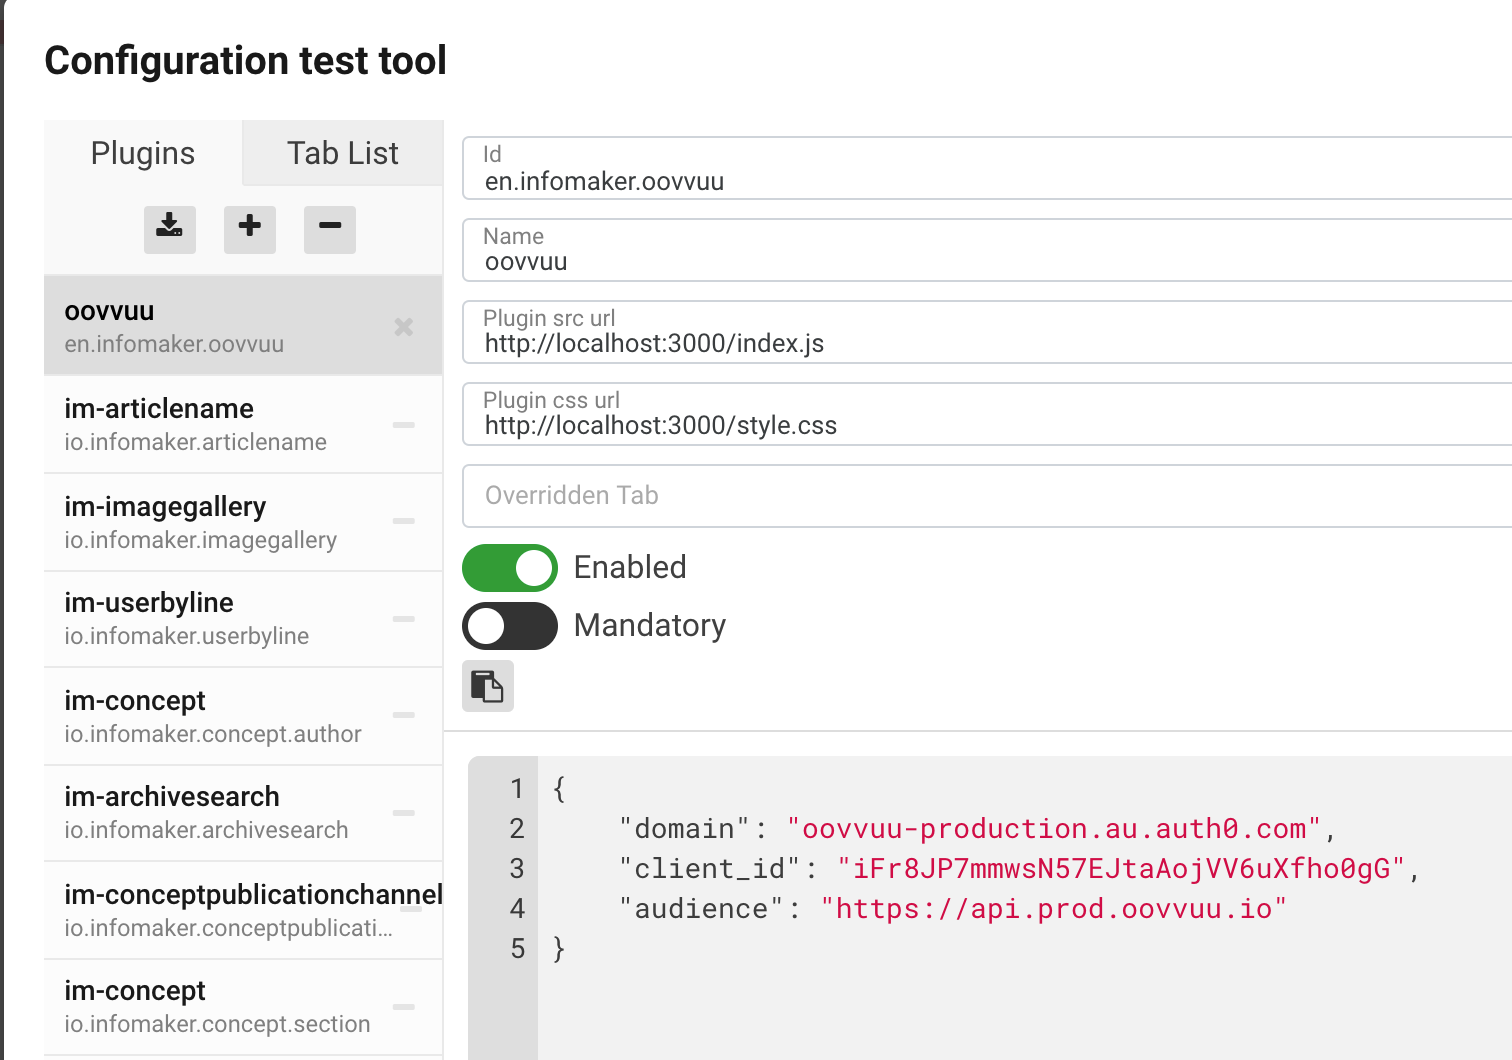
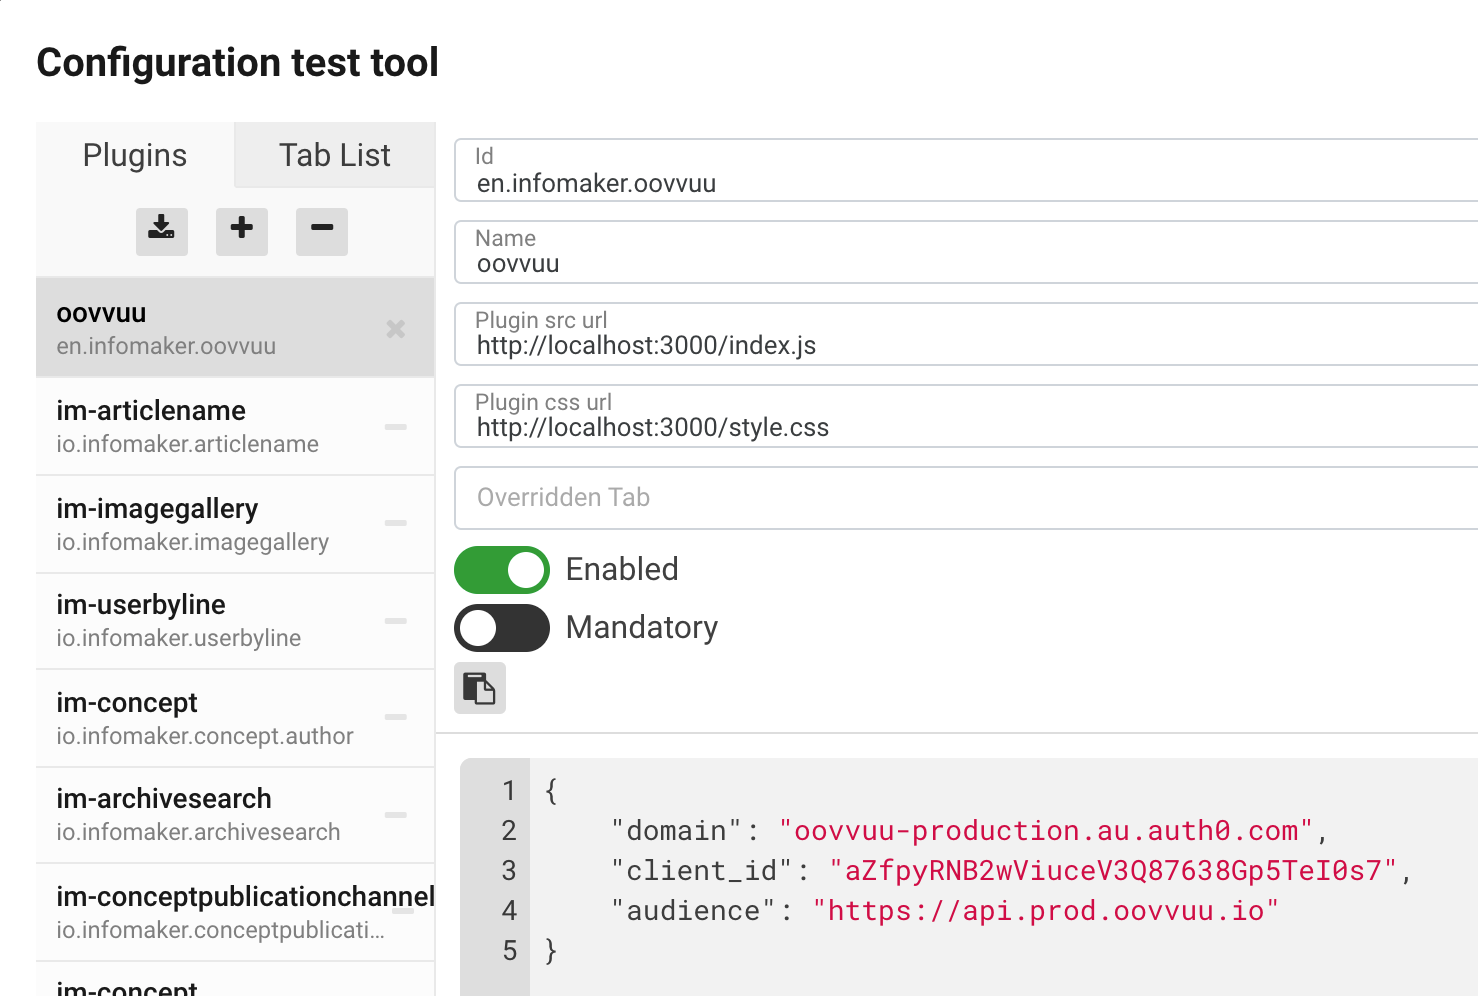
Small refinements

diff --git a/src/OovvuuNavigaPluginComponent.js b/src/OovvuuNavigaPluginComponent.js
@@ -38,8 +38,9 @@ class OovvuuNavigaPluginComponent extends Component {
      * Handles the set auth state based on the resolution of a Promise.
      *
      * @param {Promise} promise Auth promise.
+     * @param {Boolean} showError Whether or not to show auth errors.
      */
-    handleSetAuthState( promise ) {
+    handleSetAuthState( promise, showError = false ) {
         // Clear the auth state.
         this.clearAuthState();
         this.clearAuthErrorState();
@@ -51,7 +52,10 @@ class OovvuuNavigaPluginComponent extends Component {
                 this.setUser(authService.getUser());
             })
             .catch((error) => {
-                this.setAuthErrorState(error);
+                if (showError) {
+                    this.setAuthErrorState(error);
+                }
+
                 this.setAuthState(false);
             });
     }
@@ -136,7 +140,7 @@ class OovvuuNavigaPluginComponent extends Component {
             const LoginButton = $$(UIButton, {
                 label: this.getLabel('Login'),
                 type: 'default',
-                onClick: async() => this.handleSetAuthState(authService.login()),
+                onClick: async() => this.handleSetAuthState(authService.login(), true),
             });
 
             // Authentication error

diff --git a/src/components/brightcovePlayer/index.js b/src/components/brightcovePlayer/index.js
@@ -19,13 +19,13 @@ class BrightcovePlayer extends Component {
      */
     getInitialState() {
         return {
-            elementId: `brightcove-player-${this.props.videoId}`
+            elementClass: `brightcove-player-${this.props.location}-${this.props.videoId}`
         };
     }
 
     didMount() {
         brightcovePlayerLoader({
-            refNode: `#${this.state.elementId}`,
+            refNode: `.${this.state.elementClass}`,
             accountId: this.props.accountId,
             playerId: this.props.playerId,
             videoId: this.props.videoId
@@ -43,7 +43,7 @@ class BrightcovePlayer extends Component {
      */
     render($$) {
         return $$('div')
-            .attr('id', this.state.elementId)
+            .addClass(this.state.elementClass)
             .addClass(styles.wrapper);
     }
 }

diff --git a/src/converters/OovvuuConverter.js b/src/converters/OovvuuConverter.js
@@ -10,6 +10,7 @@ const OovvuuConverter = {
         node.brightcoveAccountId = el.find('brightcoveAccountId').text()
         node.brightcovePlayerId = el.find('brightcovePlayerId').text()
         node.brightcoveVideoId = el.find('brightcoveVideoId').text()
+        node.embedId = el.find('embedId').text()
         node.embed = el.find('embed').text()
     },
 
@@ -25,6 +26,7 @@ const OovvuuConverter = {
                 $$('brightcoveAccountId').text(node.brightcoveAccountId),
                 $$('brightcovePlayerId').text(node.brightcovePlayerId),
                 $$('brightcoveVideoId').text(node.brightcoveVideoId),
+                $$('embedId').text(node.embedId),
                 $$('embed').text(node.embed),
             ]),
         ]);

diff --git a/src/components/searchWrapper/searchResultsItem/index.js b/src/components/searchWrapper/searchResultsItem/index.js
@@ -70,6 +70,7 @@ class SearchResultsListItem extends Component {
                         brightcoveAccountId: this.props.video.preview.brightcoveAccountId,
                         brightcovePlayerId: this.props.video.preview.brightcovePlayerId,
                         brightcoveVideoId: this.props.video.preview.brightcoveVideoId,
+                        embedId: embed.createVideoEmbed.id,
                         embed: embed.createVideoEmbed,
                     }
                 );
@@ -115,6 +116,7 @@ class SearchResultsListItem extends Component {
 
         // Add the player.
         container.append($$(BrightcovePlayer, {
+            location: 'searchResults',
             accountId,
             playerId,
             videoId,

diff --git a/src/nodes/OovvuuComponent.js b/src/nodes/OovvuuComponent.js
@@ -7,10 +7,15 @@ class OovvuuComponent extends Component {
 
         // Add the player.
         el.append($$(BrightcovePlayer, {
+            location: 'postContent',
             accountId: this.props.node.brightcoveAccountId,
             playerId: this.props.node.brightcovePlayerId,
             videoId: this.props.node.brightcoveVideoId,
-            embedOptions: { responsive: true }
+            embedOptions: { responsive: true },
+            options: {
+                fluid: true,
+                aspectRatio: '16:9',
+            }
         }));
 
         return el

diff --git a/src/OovvuuNavigaPluginPackage.js b/src/OovvuuNavigaPluginPackage.js
@@ -14,7 +14,7 @@ export default {
     configure: function(config, pluginConfig) {
 
         // Add plugin to main sidebar (can be overriden in plugin config)
-        config.addToSidebar('Oovvuu', pluginConfig, OovvuuNavigaPluginComponent)
+        config.addToSidebar('Search', pluginConfig, OovvuuNavigaPluginComponent)
         config.addCommand('oovvuu.insert', OovvuuCommand)
         config.addNode(OovvuuNode)
         config.addComponent(OovvuuNode.type, OovvuuComponent)

diff --git a/src/commands/OovvuuCommand.js b/src/commands/OovvuuCommand.js
@@ -9,6 +9,7 @@ class OovvuuCommand extends WriterCommand {
                 brightcoveAccountId: params.brightcoveAccountId,
                 brightcovePlayerId: params.brightcovePlayerId,
                 brightcoveVideoId: params.brightcoveVideoId,
+                embedId: params.embedId,
                 embed: JSON.stringify(params.embed),
             })
         })

diff --git a/src/nodes/OovvuuNode.js b/src/nodes/OovvuuNode.js
@@ -6,6 +6,7 @@ OovvuuNode.define({
     brightcoveAccountId: {type: 'string'},
     brightcovePlayerId: {type: 'string'},
     brightcoveVideoId: {type: 'string'},
+    embedId: {type: 'string'},
     embed: {type: 'string'}
 })
 

diff --git a/readme.md b/readme.md
@@ -23,7 +23,7 @@ The Naviga Writer does not provide any persistent storage, therefore this plugin
 ```json
 {
     "domain": "oovvuu-production.au.auth0.com",
-    "client_id": "iFr8JP7mmwsN57EJtaAojVV6uXfho0gG",
+    "client_id": "aZfpyRNB2wViuceV3Q87638Gp5TeI0s7",
     "audience": "https://api.prod.oovvuu.io"
 }
 ```
